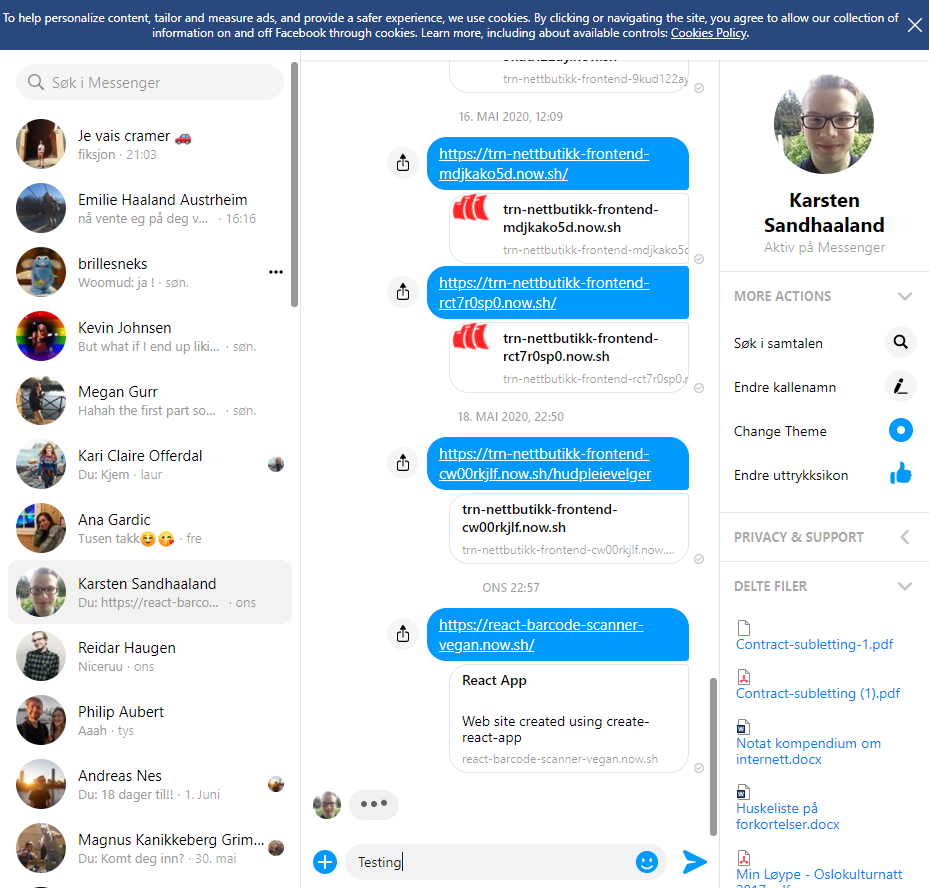
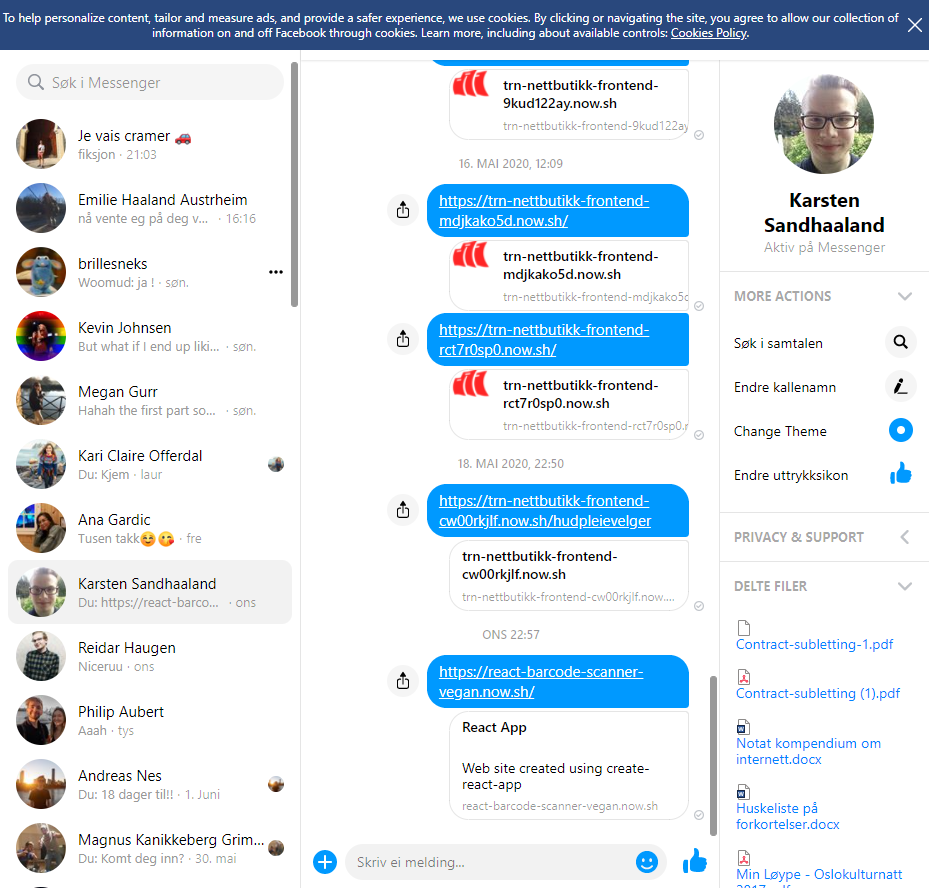
eachline not working

diff --git a/index.js b/index.js
@@ -1,5 +1,5 @@
 const puppeteer = require('puppeteer');
-const fs = require('fs');
+const lineReader = require('line-reader');
 const CRED = require('./secret.js');
 
 
@@ -56,11 +56,17 @@ const CRED = require('./secret.js');
     await sleep(5000);
 
 
-    //await fs.open("script.txt","r");
 
-    var contents = fs.readFileSync('script.txt', 'utf8');
-    console.log(contents);
-    await page.keyboard.type("Testing", { delay: 50 })
+
+    lineReader.eachLine("script.txt", function (line) {
+
+        page.keyboard.type(line.toString(), { delay: 50 })
+        //page.keyboard.press('Enter');
+        //console.log(line)
+    });
+
+
+    //await page.keyboard.type("Testing", { delay: 50 })
     await sleep(3000);
     await page.screenshot({ path: 'example.png' });
 
